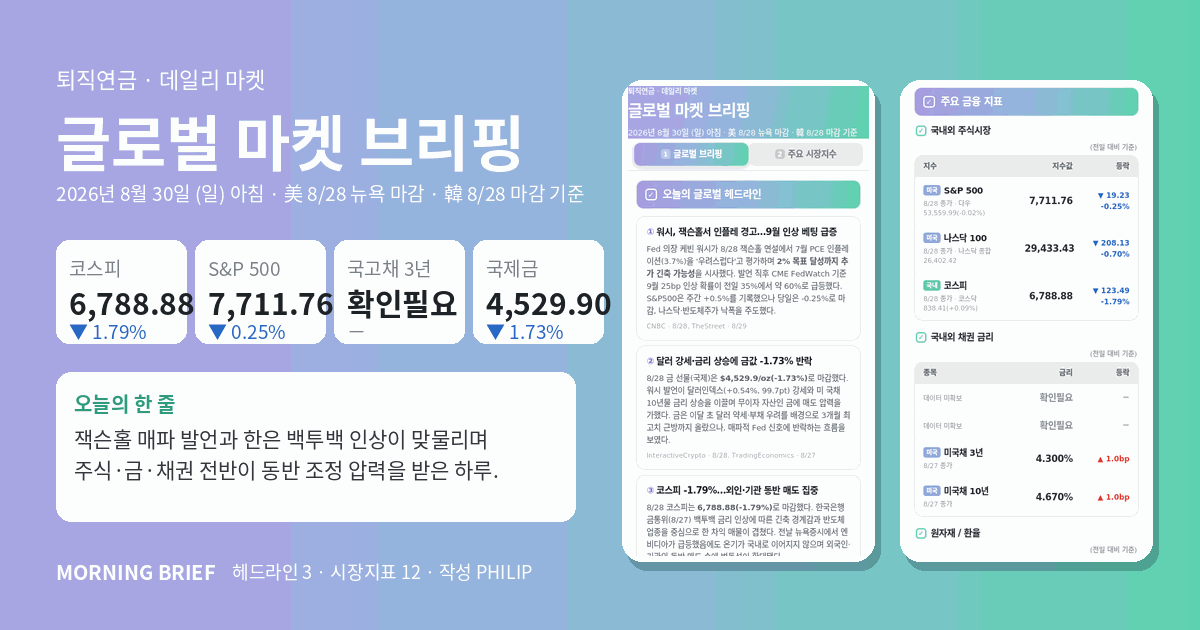
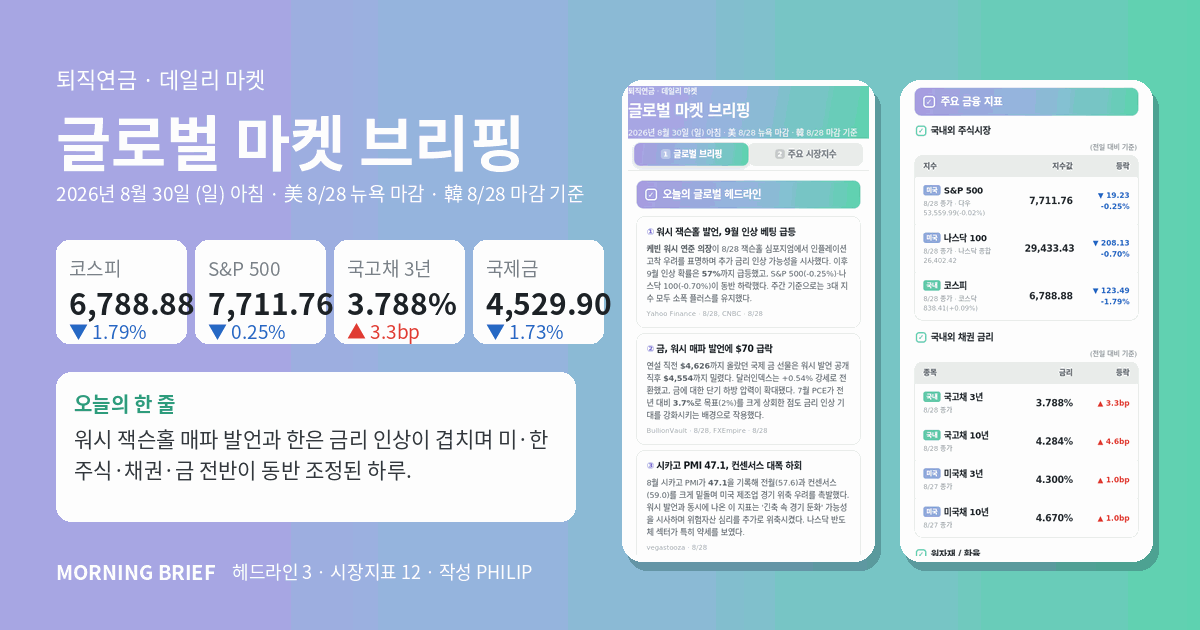
브리핑 2026-08-30 자동 배포

diff --git a/docs/2026-08-30.html b/docs/2026-08-30.html
@@ -20,7 +20,7 @@
 <meta property="og:site_name"   content="퇴직연금 데일리 마켓 브리핑">
 <meta property="og:locale"      content="ko_KR">
 <meta property="og:title"       content="글로벌 마켓 브리핑 | 2026년 8월 30일 (일) 아침">
-<meta property="og:description" content="워시 Fed 의장 잭슨홀 매파 발언에 9월 금리 인상 확률 ~60% 급등. S&amp;P500 -0.25%, 코스피 -1.79%, 금 -1.73% 마감(8/28 기준).">
+<meta property="og:description" content="워시 Fed 의장 잭슨홀 매파 발언에 S&amp;P 500 -0.25%, 금 -1.73%. 한은 금통위 기준금리 인상으로 국고채 3·10년물 동반 상승.">
 <meta property="og:url"         content="https://psyops42-art.github.io/market-brief/2026-08-30.html">
 <meta property="og:image"       content="https://psyops42-art.github.io/market-brief/og-2026-08-30.png">
 <meta property="og:image:width"  content="1200">
@@ -29,10 +29,10 @@
 
 <meta name="twitter:card"        content="summary_large_image">
 <meta name="twitter:title"       content="글로벌 마켓 브리핑 | 2026년 8월 30일 (일) 아침">
-<meta name="twitter:description" content="워시 Fed 의장 잭슨홀 매파 발언에 9월 금리 인상 확률 ~60% 급등. S&amp;P500 -0.25%, 코스피 -1.79%, 금 -1.73% 마감(8/28 기준).">
+<meta name="twitter:description" content="워시 Fed 의장 잭슨홀 매파 발언에 S&amp;P 500 -0.25%, 금 -1.73%. 한은 금통위 기준금리 인상으로 국고채 3·10년물 동반 상승.">
 <meta name="twitter:image"       content="https://psyops42-art.github.io/market-brief/og-2026-08-30.png">
 
-<meta name="description" content="워시 Fed 의장 잭슨홀 매파 발언에 9월 금리 인상 확률 ~60% 급등. S&amp;P500 -0.25%, 코스피 -1.79%, 금 -1.73% 마감(8/28 기준).">
+<meta name="description" content="워시 Fed 의장 잭슨홀 매파 발언에 S&amp;P 500 -0.25%, 금 -1.73%. 한은 금통위 기준금리 인상으로 국고채 3·10년물 동반 상승.">
 <meta name="author" content="PHILIP">
 <title>글로벌 마켓 브리핑 | 2026년 8월 30일 (일) 아침</title>
 <style>
@@ -207,37 +207,37 @@ body{
       <div class="sec"><div class="ck">✓</div><h2>오늘의 글로벌 헤드라인</h2></div>
 
       <div class="news">
-        <div class="h"><em>①</em>워시, 잭슨홀서 인플레 경고…9월 인상 베팅 급증</div>
-        <div class="d">Fed 의장 케빈 워시가 8/28 잭슨홀 연설에서 7월 PCE 인플레이션(3.7%)을 '우려스럽다'고 평가하며 <b>2% 목표 달성까지 추가 긴축 가능성</b>을 시사했다. 발언 직후 CME FedWatch 기준 9월 25bp 인상 확률이 전일 35%에서 약 60%로 급등했다. S&P500은 주간 +0.5%를 기록했으나 당일은 -0.25%로 마감, 나스닥·반도체주가 낙폭을 주도했다.</div>
-        <div class="s">CNBC · 8/28, TheStreet · 8/29</div>
+        <div class="h"><em>①</em>워시 잭슨홀 발언, 9월 인상 베팅 급등</div>
+        <div class="d"><b>케빈 워시 연준 의장</b>이 8/28 잭슨홀 심포지엄에서 인플레이션 고착 우려를 표명하며 추가 금리 인상 가능성을 시사했다. 이후 9월 인상 확률은 <b>57%</b>까지 급등했고, S&P 500(-0.25%)·나스닥 100(-0.70%)이 동반 하락했다. 주간 기준으로는 3대 지수 모두 소폭 플러스를 유지했다.</div>
+        <div class="s">Yahoo Finance · 8/28, CNBC · 8/28</div>
       </div>
       <div class="news">
-        <div class="h"><em>②</em>달러 강세·금리 상승에 금값 -1.73% 반락</div>
-        <div class="d">8/28 금 선물(국제)은 <b>$4,529.9/oz(-1.73%)</b>로 마감했다. 워시 발언이 달러인덱스(+0.54%, 99.7pt) 강세와 미 국채 10년물 금리 상승을 이끌며 무이자 자산인 금에 매도 압력을 가했다. 금은 이달 초 달러 약세·부채 우려를 배경으로 3개월 최고치 근방까지 올랐으나, 매파적 Fed 신호에 반락하는 흐름을 보였다.</div>
-        <div class="s">InteractiveCrypto · 8/28, TradingEconomics · 8/27</div>
+        <div class="h"><em>②</em>금, 워시 매파 발언에 $70 급락</div>
+        <div class="d">연설 직전 <b>$4,626</b>까지 올랐던 국제 금 선물은 워시 발언 공개 직후 <b>$4,554</b>까지 밀렸다. 달러인덱스는 +0.54% 강세로 전환했고, 금에 대한 단기 하방 압력이 확대됐다. 7월 PCE가 전년 대비 <b>3.7%</b>로 목표(2%)를 크게 상회한 점도 금리 인상 기대를 강화시키는 배경으로 작용했다.</div>
+        <div class="s">BullionVault · 8/28, FXEmpire · 8/28</div>
       </div>
       <div class="news">
-        <div class="h"><em>③</em>코스피 -1.79%…외인·기관 동반 매도 집중</div>
-        <div class="d">8/28 코스피는 <b>6,788.88(-1.79%)</b>로 마감했다. 한국은행 금통위(8/27) 백투백 금리 인상에 따른 긴축 경계감과 반도체 업종을 중심으로 한 차익 매물이 겹쳤다. 전날 뉴욕증시에서 엔비디아가 급등했음에도 온기가 국내로 이어지지 않으며 외국인·기관의 동반 매도 속에 변동성이 확대됐다.</div>
-        <div class="s">Businesskorea · 8/28, 시사뉴스 · 8/28</div>
+        <div class="h"><em>③</em>시카고 PMI 47.1, 컨센서스 대폭 하회</div>
+        <div class="d">8월 시카고 PMI가 <b>47.1</b>을 기록해 전월(57.6)과 컨센서스(59.0)를 크게 밑돌며 미국 제조업 경기 위축 우려를 촉발했다. 워시 발언과 동시에 나온 이 지표는 '긴축 속 경기 둔화' 가능성을 시사하며 위험자산 심리를 추가로 위축시켰다. 나스닥 반도체 섹터가 특히 약세를 보였다.</div>
+        <div class="s">vegastooza · 8/28</div>
       </div>
       <div class="news kr">
-        <div class="h">한은 금통위, 기준금리 3.00%로 백투백 인상</div>
-        <div class="d">한국은행 금융통화위원회는 8/27 기준금리를 <b>연 3.00%</b>로 0.25%p 추가 인상했다. 7월에 이어 한 달 만에 같은 폭의 인상을 결정한 것으로, 물가 상방 압력에 선제 대응하겠다는 의지를 분명히 했다. 이는 퇴직연금 자산배분에서 채권 듀레이션 리스크와 국내 주식 밸류에이션 재조정 가능성을 동시에 점검할 필요성을 높인다.</div>
-        <div class="s">파이낸셜뉴스 · 8/27</div>
+        <div class="h">한은 금통위 기준금리 인상, 국고채 금리 동반 급등</div>
+        <div class="d"><b>한국은행 금융통화위원회</b>가 8/27 기준금리를 <b>0.25%p 인상</b>하며 통화 긴축 기조를 재확인했다. 이에 국고채 3년물(+3.3bp)·10년물(+4.6bp)이 동반 상승했고, 8/28 코스피는 금통위 경계 심리와 외국인·기관 동반 순매도가 겹쳐 <b>-1.79%</b> 급락했다. 퇴직연금 채권 편입 비중이 높은 포트폴리오는 단기적으로 평가손이 발생할 수 있어 듀레이션 관리에 주의가 필요하다.</div>
+        <div class="s">한국은행 · 8/27, Businesskorea · 8/28, 서울경제 · 8/28</div>
       </div>
 
       <div class="sec" style="margin-top:20px"><div class="ck">✓</div><h2>투자마인드</h2></div>
 
       <div class="mind">
         <div class="n">MINDSET 01</div>
-        <div class="t">오늘 시장: 금리 재인상 국면, 자산간 상관관계가 높아지는 구간</div>
-        <div class="b">미국과 한국이 동시에 추가 긴축 신호를 보내면서 주식·채권·금 등 전통 자산이 일제히 조정 압력을 받았다. 이처럼 <b>금리 인상 기대가 자산 전반에 동시 영향을 주는 국면</b>에서는 개별 자산 간 분산 효과가 일시적으로 약해지는 경향이 있다. 단기 수익률보다 장기 자산배분 구조의 안정성에 초점을 맞추는 것이 유효한 시기로 해석된다.</div>
+        <div class="t">긴축 재점화 국면: 주식·채권 동반 조정</div>
+        <div class="b">미·한 양국 중앙은행이 동시에 긴축 신호를 강화하며 주식과 채권 모두 가격 하락 압력을 받는 국면이다. 이런 환경에서는 자산 간 상관관계가 높아져 분산 효과가 일시적으로 약해질 수 있다는 점을 인식하는 것이 중요하다.</div>
       </div>
       <div class="mind">
         <div class="n">MINDSET 02</div>
-        <div class="t">Core(TDF)와 Satellite(ETF)의 역할 분담</div>
-        <div class="b"><b>Core인 TDF는 생애주기 설계에 따라 주식·채권 비중을 자동 조정</b>하므로, 오늘처럼 금리 변수가 복잡하게 움직이는 국면에서도 별도 개입 없이 리밸런싱 기능이 작동한다. Satellite인 ETF는 AI·반도체 등 테마 변동성에 노출될 수 있으나, Core가 안정적 기반을 받쳐주기 때문에 과도한 단기 대응은 불필요하다. 두 축의 역할이 명확할수록 시장 노이즈에 흔들리지 않는 구조가 유지된다.</div>
+        <div class="t">Core(TDF)가 방어선, Satellite(ETF)로 기회 포착</div>
+        <div class="b"><b>Core인 TDF</b>는 생애주기에 따라 주식·채권 비중을 자동 조정하므로, 금리 변동기에도 전략적 리밸런싱이 내재되어 있다. <b>Satellite인 ETF</b>는 시장 변동 구간에서 특정 섹터나 자산군 노출을 조절하는 데 활용할 수 있으나, Core의 장기 축을 흔들지 않는 범위 내에서만 운용한다.</div>
         <div class="cs">
           <div class="box core"><div class="l">핵심자산 Core</div><div class="v">TDF 30~50%</div></div>
           <div class="plus">+</div>
@@ -246,15 +246,15 @@ body{
       </div>
       <div class="mind">
         <div class="n">MINDSET 03</div>
-        <div class="t">장기투자 원칙: 정책 불확실성은 일시적, 분산의 효과는 시간이 증명한다</div>
-        <div class="b">Fed 의장 교체 이후 포워드 가이던스 축소, 한은의 연속 인상 등 정책 불확실성이 높아 보이지만, <b>글로벌 자산배분 포트폴리오는 특정 국가·통화정책 사이클에 의존하지 않도록 설계</b>되어 있다. 불확실성이 높은 구간일수록 분산 전략의 가치가 더 명확해지는 경향이 있다. 시장 예측보다 자산배분 원칙을 일관되게 유지하는 것이 장기 수익 안정성의 핵심이다.</div>
+        <div class="t">단기 변동성은 장기 수익률의 일부다</div>
+        <div class="b">금리 인상 기대와 경기 지표 부진이 겹친 지금과 같은 구간은 역사적으로 반복되어 왔다. 퇴직연금은 10년 이상의 투자 기간을 전제로 하며, 단기 가격 조정은 장기 복리 수익률 경로의 일부로 해석하는 관점이 중요하다.</div>
       </div>
 
       <div class="quote">
         <div class="qh">그대로 쓰는 정리 문장</div>
-        <p>8월 28일(금) 미국 Fed 의장 워시가 잭슨홀에서 인플레이션 우려를 재확인하면서 S&P500은 -0.25%로 마감했고, 9월 금리 인상 가능성이 약 60%까지 높아졌습니다.</p>
-        <p>한국은행도 8월 27일 기준금리를 연 3.00%로 0.25%p 추가 인상하며 백투백 긴축을 단행했고, 이에 코스피는 외국인·기관의 동반 매도로 -1.79% 하락했습니다.</p>
-        <p>미국과 한국이 동시에 긴축 신호를 보내는 복잡한 국면이지만, TDF 중심의 Core 자산은 시장 국면과 무관하게 생애주기에 맞는 비중 조정이 자동으로 작동하고 있습니다.</p>
+        <p>8월 28일 미국 시장은 케빈 워시 연준 의장이 잭슨홀에서 인플레이션 고착 우려와 추가 금리 인상 가능성을 시사하면서 9월 인상 확률이 57%까지 급등했고, S&P 500은 0.25% 하락 마감했습니다.</p>
+        <p>국내에서도 한국은행이 기준금리를 0.25%p 인상하며 긴축 기조를 재확인했고, 외국인과 기관의 동반 순매도로 코스피가 1.79% 내려 국고채 금리도 3~10년물 전 구간에서 상승 마감했습니다.</p>
+        <p>미·한 동시 긴축 신호로 단기 변동성이 높아진 구간이지만, TDF 중심의 Core 전략은 생애주기 자동 조정 기능을 통해 이런 환경에서도 일관된 자산배분을 유지할 수 있도록 설계되어 있습니다.</p>
       </div>
 
       <div class="note">
@@ -291,12 +291,12 @@ body{
       <div class="tbl">
         <div class="th"><div class="c1">종목</div><div class="c2">금리</div><div class="c3">등락</div></div>
         <div class="row">
-          <div class="c1"><div class="nm"></div><div class="sub">데이터 미확보</div></div>
-          <div class="c2 fl">확인필요</div><div class="c3 fl">－</div>
+          <div class="c1"><div class="nm"><span class="bd kr">국내</span>국고채 3년</div><div class="sub">8/28 종가</div></div>
+          <div class="c2">3.788%</div><div class="c3 up">▲ 3.3bp</div>
         </div>
         <div class="row">
-          <div class="c1"><div class="nm"></div><div class="sub">데이터 미확보</div></div>
-          <div class="c2 fl">확인필요</div><div class="c3 fl">－</div>
+          <div class="c1"><div class="nm"><span class="bd kr">국내</span>국고채 10년</div><div class="sub">8/28 종가</div></div>
+          <div class="c2">4.284%</div><div class="c3 up">▲ 4.6bp</div>
         </div>
         <div class="row">
           <div class="c1"><div class="nm"><span class="bd us">미국</span>미국채 3년</div><div class="sub">8/27 종가</div></div>
@@ -333,13 +333,13 @@ body{
       <div class="sec"><div class="ck">✓</div><h2>오늘의 한 줄</h2></div>
 
       <div class="oneline">
-        <p><span class="k">시장</span> 잭슨홀 매파 발언과 한은 백투백 인상이 맞물리며 주식·금·채권 전반이 동반 조정 압력을 받은 하루.</p>
-        <p><span class="k">연금</span> 금리 재인상 국면의 변동성은 단기 노이즈로 해석하고, TDF-ETF 역할 분담 구조를 흔들지 않는 것이 퇴직연금 운용의 핵심이다.</p>
+        <p><span class="k">시장</span> 워시 잭슨홀 매파 발언과 한은 금리 인상이 겹치며 미·한 주식·채권·금 전반이 동반 조정된 하루.</p>
+        <p><span class="k">연금</span> 긴축 재점화 국면에서도 TDF-ETF 역할 분담 구조를 유지하며 장기 자산배분 원칙을 흔들지 않는 것이 핵심이다.</p>
       </div>
 
       <div class="nextbox">
         <div class="qh">이번 주 남은 체크포인트</div>
-        <p>9월 FOMC 금리 결정(9월 중순 예정) · 미국 8월 CPI 발표 · 한국 8월 소비자물가 발표 · 한은 금통위 10/22</p>
+        <p>9/17~18 FOMC(금리 결정 및 점도표) · 9/10 미국 CPI(8월) · 10/22 한은 금통위 · 9/5 미국 8월 고용지표(비농업 취업자 수)</p>
       </div>
 
       <div class="srcbox">
@@ -356,7 +356,6 @@ body{
 
       <div class="note">
         ※ 지수·환율·원자재는 Yahoo Finance, 미국채는 FRED, 국고채는 한국은행 ECOS 자료를 자동 수집한 값입니다. 항목별 기준일은 각 행에 표기했습니다.<br>
-        ※ 자동 수집에 실패한 항목(2건)은 "확인필요"로 표기했습니다. 발송 전 확인하세요.<br>
         ※ 금·유가는 선물 기준이며 현물과 차이가 있을 수 있습니다.<br>
 
         ※ 본 자료는 시장 정보 제공을 목적으로 작성되었으며, 특정 상품의 매매를 권유하지 않습니다.<br>

diff --git a/docs/index.html b/docs/index.html
@@ -43,7 +43,7 @@ a.card.new{border:1.5px solid #63D3B2;background:#F4FBF8}
     <a class="card new" href="2026-08-30.html">
       <div class="dt">최신</div>
       <div class="tt">글로벌 마켓 브리핑 | 2026년 8월 30일 (일) 아침</div>
-      <div class="ln">잭슨홀 매파 발언과 한은 백투백 인상이 맞물리며 주식·금·채권 전반이 동반 조정 압력을 받은 하루.</div>
+      <div class="ln">워시 잭슨홀 매파 발언과 한은 금리 인상이 겹치며 미·한 주식·채권·금 전반이 동반 조정된 하루.</div>
       <div class="go">브리핑 열기 →</div>
     </a>
     <div class="foot">
